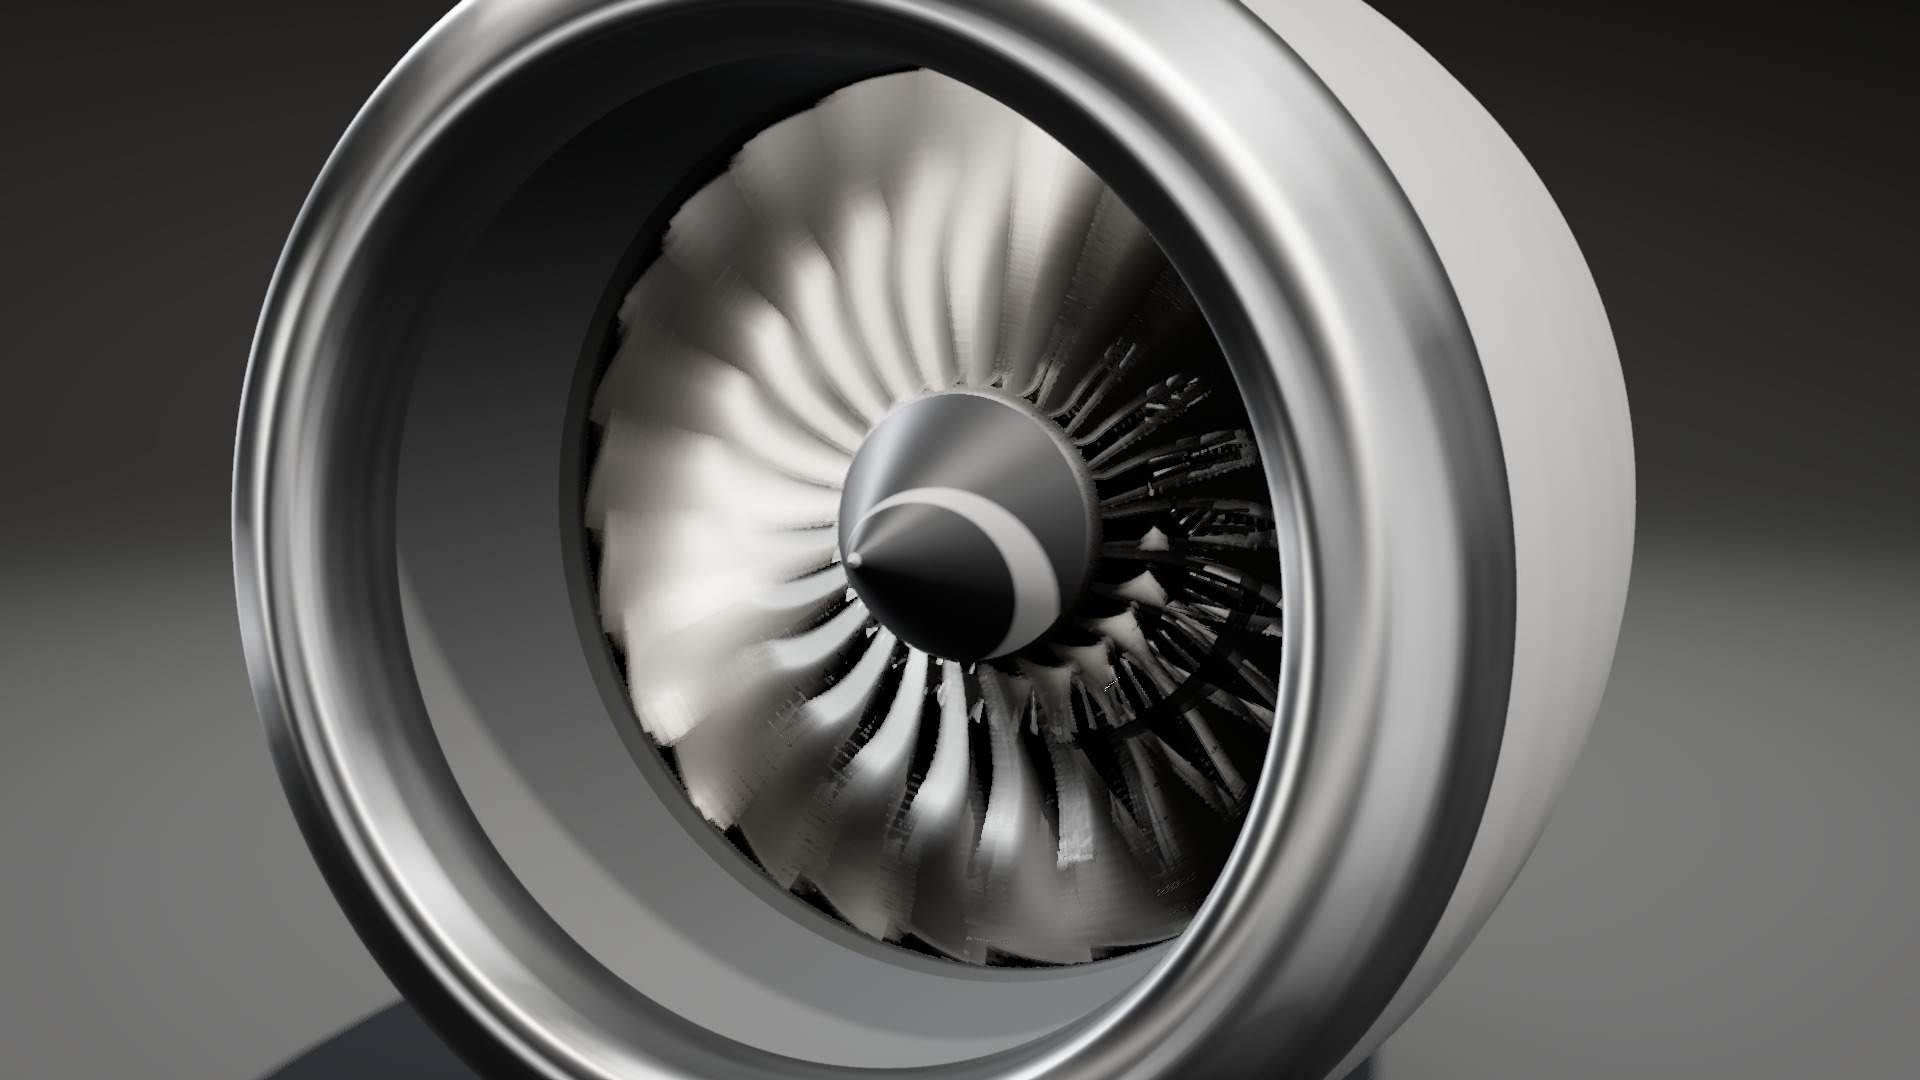
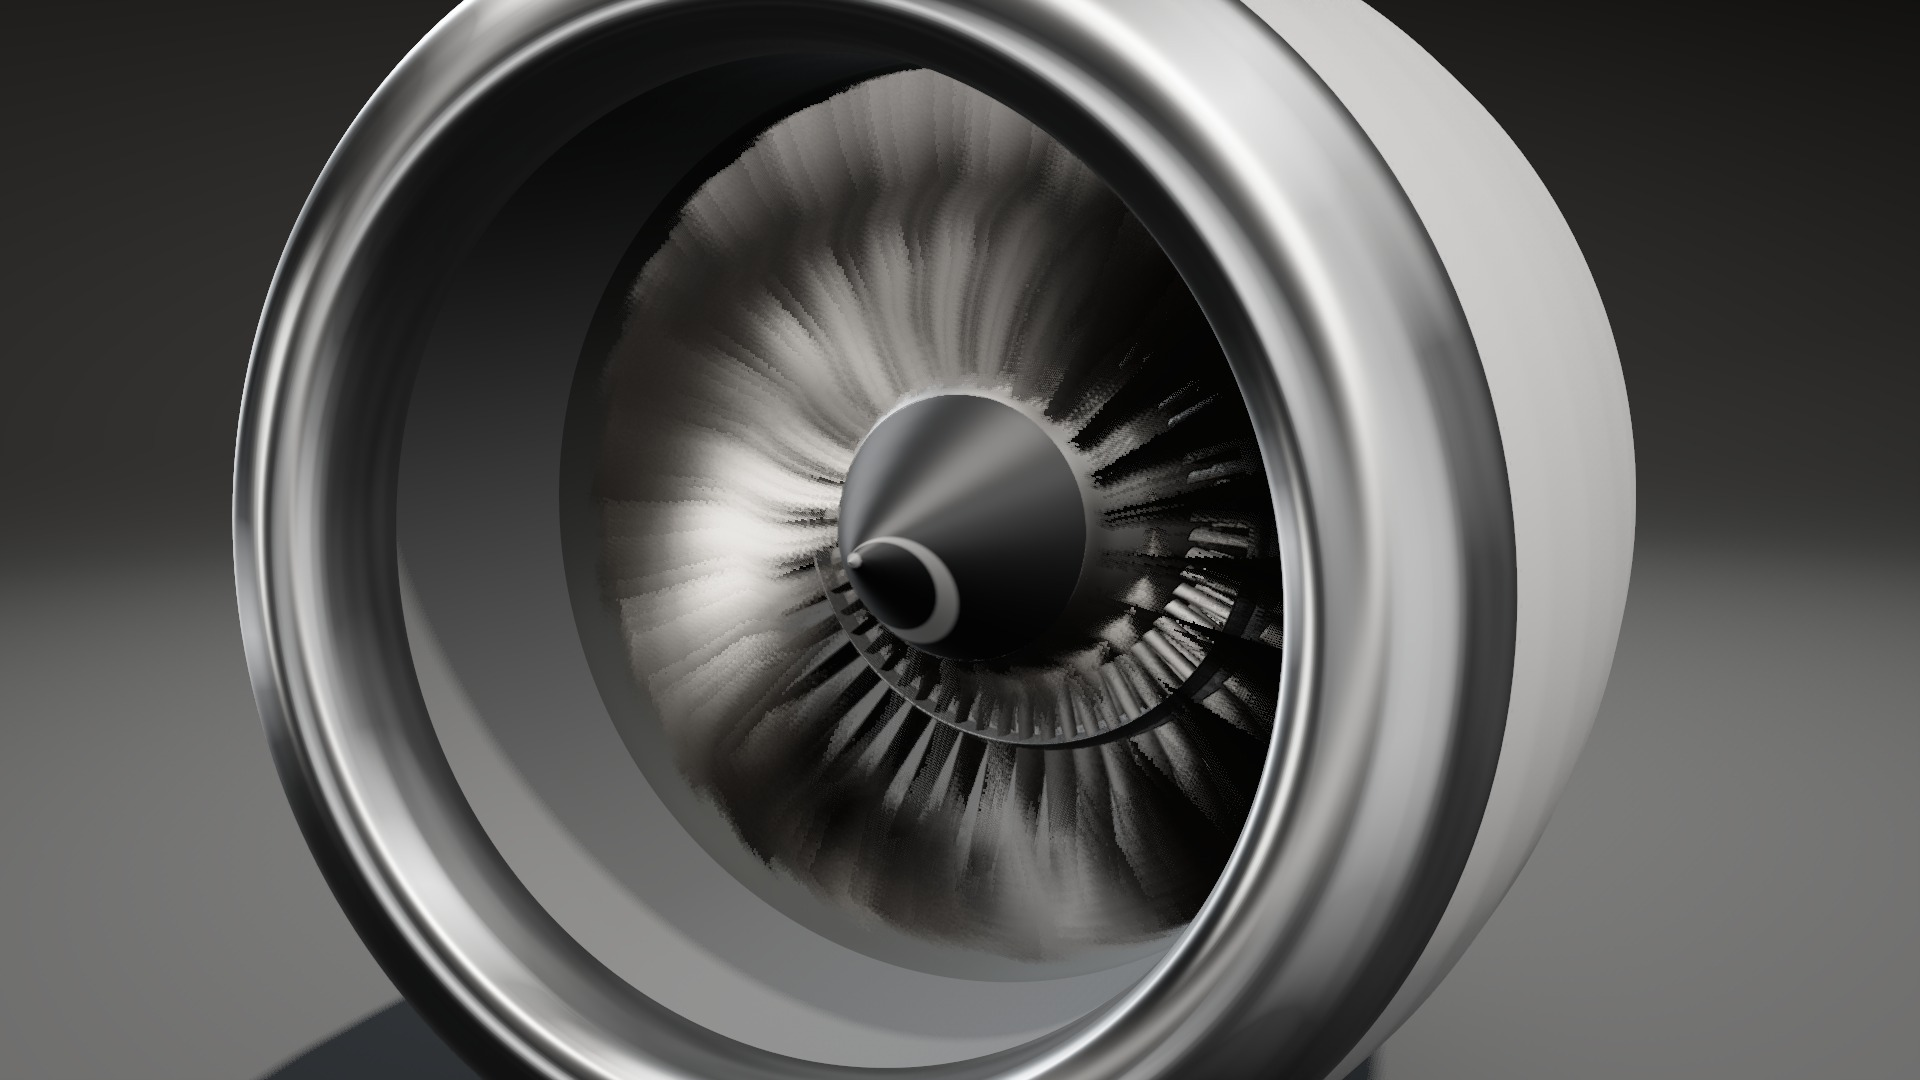
W1-lookdev-2: W1L-I3 per-frame R2 offset of the copy pick; the composite averages the 3x3 neighbours' instants (one frame is a nine-sample estimate); blur bounds restated

Changed region(s): [[0.2812, 0.0611, 0.6875, 0.9167], [0.5625, 0.8556, 0.625, 0.8861]]

diff --git a/src/render/post.ts b/src/render/post.ts
@@ -15,8 +15,10 @@
 //   Every pixel is therefore an exact still of the fan at one instant, and TRAA's history
 //   (zero velocity: the fan is not in the main pass) averages the instants: exact in the
 //   limit, with no reprojection, so no disoccluded holes (the pass-4 march shredded the far
-//   side and left a comb at the hub). tests/browser/fanBlur.test.ts holds it to the mean of
-//   64 stills.
+//   side and left a comb at the hub). The composite averages each pixel's 3 x 3 neighbours'
+//   instants, so every frame is already a nine-sample estimate (the fan turns between frames,
+//   so TRAA alone cannot average one sample per pixel). tests/browser/fanBlur.test.ts holds
+//   it to the mean of 64 stills.
 // - Other rotors (cutaway rows, the spinner) use the pixel's own rotor depth: exact for
 //   surfaces of revolution, and the rows are thin. Their samples are jittered per pixel and
 //   frame and TRAA averages the noise out; the angle is capped at one blade pitch (the image
@@ -48,6 +50,7 @@ import {
   pass,
   rtt,
   screenCoordinate,
+  screenSize,
   screenUV,
   select,
   sin,
@@ -206,7 +209,43 @@ export function createPipeline(
         select(visibleRotor, float(1), float(0)),
         1,
       );
-    return vec4(lit.mul(float(1).sub(rot.a)).add(rot.rgb), 1);
+    const own = lit.mul(float(1).sub(rot.a)).add(rot.rgb);
+
+    // The fan's time samples: every pixel holds one instant (one fan copy), so one frame is
+    // binary noise, and TRAA cannot average a fan that turns between frames. The 3 x 3
+    // neighbourhood holds about all eight copies (interleaved gradient noise), so the pixel
+    // takes the mean of its neighbours' instants: a neighbour's fan fragment where it lies in
+    // front of what this pixel shows behind the fan, else this pixel's own view past the fan.
+    // A pixel whose front surface is ahead of every neighbouring fan fragment (the spinner,
+    // the lip) keeps its own colour. One pixel of spatial blur on the fan, none on the rest.
+    const zBehind = select(covered.and(isFan.not()).and(visibleRotor), zRotor, zScene);
+    const centreFan = isFan.and(visibleRotor);
+    const sum = vec3(0).toVar();
+    const weight = float(0).toVar();
+    const fanHits = float(0).toVar();
+    for (let dy = -1; dy <= 1; dy++)
+      for (let dx = -1; dx <= 1; dx++) {
+        const nuv = suv.add(vec2(dx, dy).div(screenSize));
+        const nc = rotorColor.sample(nuv);
+        const nFan = rotorBlur.sample(nuv).b.greaterThan(0.5).and(nc.a.greaterThan(0.5));
+        const nz = viewZOf(rotorDepth.sample(nuv).r);
+        const valid = nFan.and(nz.greaterThan(zBehind));
+        // the view past the fan: this pixel's own composite where it sees no fan; on a fan
+        // pixel, the neighbour's own (a booster blade or the spinner there, else the scene)
+        const nsd = sceneDepth.sample(nuv).r;
+        const nzs = select(nsd.lessThan(1), viewZOf(nsd), float(-1e9));
+        const nRotor = nc.a.greaterThan(0.001).and(nFan.not()).and(nz.greaterThan(nzs));
+        const nPast = select(nRotor, nc.rgb, sceneColor.sample(nuv).rgb.mul(occl));
+        // on a fan pixel, a neighbour whose front surface is ahead of this fan fragment (the
+        // spinner's or the lip's edge) is left out, so occluding edges stay sharp
+        const nFront = select(nRotor, nz, nzs);
+        const occludes = centreFan.and(valid.not()).and(nFront.greaterThan(zRotor.add(0.002)));
+        const w = select(occludes, float(0), float(1));
+        sum.addAssign(select(valid, nc.rgb, select(centreFan, nPast, own)).mul(w));
+        weight.addAssign(w);
+        fanHits.addAssign(select(valid, float(1), float(0)));
+      }
+    return vec4(select(fanHits.greaterThan(0), sum.div(weight.max(1)), own), 1);
   })();
   const compositeTex = rtt(composite, null, null, { type: HalfFloatType });
   compositeTex.name = 'Composite';

diff --git a/src/render/materials.ts b/src/render/materials.ts
@@ -37,7 +37,6 @@ import {
   floor,
   Fn,
   fract,
-  frameId,
   fwidth,
   hash,
   instanceIndex,
@@ -77,6 +76,8 @@ export interface LookUniforms {
   readonly heat: UniformNode<'float', number>;
   /** Fan time copies a pixel chooses among this frame (1 when the fan is still). */
   readonly fanCopies: UniformNode<'float', number>;
+  /** Per-frame offset in [0, 1) of the fan copy each pixel picks (an R2 sequence, the view). */
+  readonly fanSeed: UniformNode<'float', number>;
 }
 
 /** Time-offset copies of the fan drawn per frame (stochastic blur, src/render/post.ts). */
@@ -90,6 +91,7 @@ export function createLookUniforms(): LookUniforms {
     hpBlur: uniform(0),
     heat: uniform(1),
     fanCopies: uniform(FAN_TIME_SAMPLES),
+    fanSeed: uniform(0),
   };
 }
 
@@ -415,19 +417,18 @@ function bladeHide(
 
 /**
  * Stochastic time sampling of the fan (W1L-I3): each pixel keeps the fragments of one of the
- * fan's time copies (userData.timeSample), chosen per pixel and frame by interleaved gradient
- * noise (well spread in every 3 x 3 neighbourhood, so TRAA's colour clamp spans the samples
- * and keeps the history). Within that copy the depth test is the ordinary one.
+ * fan's time copies (userData.timeSample). The choice is interleaved gradient noise (well
+ * spread in every 3 x 3 neighbourhood, so TRAA's colour clamp spans the samples and keeps the
+ * history) plus a per-frame offset, so every pixel cycles through all copies over the frames
+ * (a static pattern left each pixel on one copy: vertical streaks). Within that copy the depth
+ * test is the ordinary one.
  */
 function fanTimeMask(u: LookUniforms): Node<'bool'> {
   const sample = uniform(0).onObjectUpdate(({ object }) =>
     Number(object?.userData.timeSample ?? 0),
   );
-  const f = float(frameId.mod(64));
   const pick = floor(
-    interleavedGradientNoise(screenCoordinate.xy.add(vec2(f.mul(5.588), f.mul(3.117)))).mul(
-      u.fanCopies,
-    ),
+    fract(interleavedGradientNoise(screenCoordinate.xy).add(u.fanSeed)).mul(u.fanCopies),
   ).min(u.fanCopies.sub(1));
   return pick.equal(sample);
 }

diff --git a/src/render/engineView.ts b/src/render/engineView.ts
@@ -279,14 +279,17 @@ async function assemble(
       for (const g of scene.spoolGroups.hp) g.rotation.x = hp;
       uniforms.lpBlur.value = shutterBlurAngle(st.n1Rpm, shutterDeg, FPS);
       uniforms.hpBlur.value = shutterBlurAngle(st.n2Rpm, shutterDeg, FPS);
-      // the fan's time copies spread over the exposure, re-jittered every frame (golden-ratio
-      // sequence) so the pixels' instants cover the shutter interval (W1L-I3). Up to two
+      // the fan's time copies spread over the exposure, re-jittered every frame, and the copy
+      // each pixel picks offset every frame: the two offsets are the 2-D R2 sequence (plastic
+      // number), so they are jointly well spread and every pixel's instants cover the shutter
+      // interval (W1L-I3). Up to two
       // pitches the exposure is exact; beyond, one pitch (the image is periodic in it, so
       // only the per-blade jitter differs) keeps the copies at distinct phases
       const fanSpan = uniforms.lpBlur.value <= 2 * fanPitch ? uniforms.lpBlur.value : fanPitch;
       const fanLive = fanSpan > 1e-5;
       fanFrame = (fanFrame + 1) % 1_000_000;
-      const j = (fanFrame * 0.6180339887498949) % 1;
+      const j = (fanFrame * 0.5698402909980532) % 1;
+      uniforms.fanSeed.value = (fanFrame * 0.7548776662466927) % 1;
       const nCopies = scene.fanTimeCopies.length;
       uniforms.fanCopies.value = fanLive ? nCopies : 1;
       scene.fanTimeCopies.forEach((m, k) => {

diff --git a/tests/browser/fanBlur.test.ts b/tests/browser/fanBlur.test.ts
@@ -27,9 +27,13 @@ const W = 960;
 const H = 540;
 const N_REF = 64;
 const MOVING = 0.01;
-// measured (Arc 140T, 2026-10-26): estimator MAE 0.0031-0.0036, worst tile 0.025-0.027; shipped MAE 0.009-0.011,
-// worst tile 0.082-0.100 (the pass-4 march, in display units: MAE 0.07-0.12, worst tile 0.40-0.50)
-const LIMITS = { raw: { mae: 0.006, tile: 0.04 }, traa: { mae: 0.02, tile: 0.14 } } as const;
+// Measured (Arc 140T, 2026-10-26, half-linear units): estimator MAE 0.0024-0.0033, worst tile
+// 0.072-0.083; shipped MAE 0.0055-0.0067, worst tile 0.081-0.092. The worst tiles sit on
+// occluding edges (the fan tip against the case, the blade roots against the hub), where the
+// composite's 3 x 3 average of the neighbours' instants bleeds one pixel; before that filter
+// the estimator's worst tile was 0.025, but one frame was binary noise. The pass-4 march
+// measured MAE 0.07-0.12 and worst tile 0.40-0.50 (display units).
+const LIMITS = { raw: { mae: 0.005, tile: 0.11 }, traa: { mae: 0.012, tile: 0.13 } } as const;
 
 interface Stack {
   readonly mean: Float32Array;
